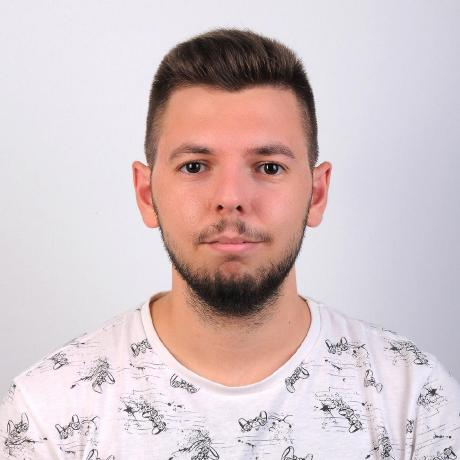
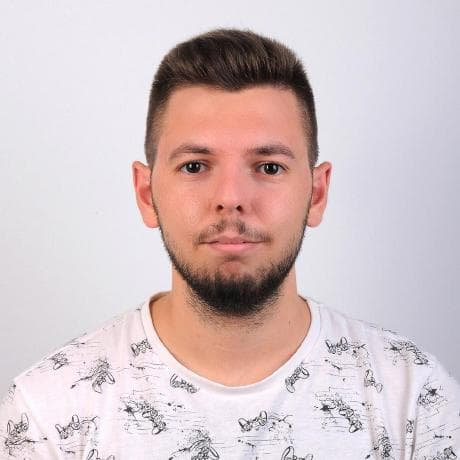
deploy: 73b358ade53dbc720b587147101f2005d27150a9

diff --git a/flutter_service_worker.js b/flutter_service_worker.js
@@ -7,8 +7,8 @@ const RESOURCES = {
 "icons/Icon-192.png": "f734be520ccdb09c10e2bbc6ec0b191b",
 "favicon.png": "984542880c9a626c99c8984baa3f5c29",
 "manifest.json": "21ec26c3d3fde1fd00fb3b188a7bc64d",
-"index.html": "9ba3057c1d0174dfd0e82ebb98a99133",
-"/": "9ba3057c1d0174dfd0e82ebb98a99133",
+"index.html": "47e52d3c4b097ae425b9ebe8a2ab9bf1",
+"/": "47e52d3c4b097ae425b9ebe8a2ab9bf1",
 "assets/packages/cupertino_icons/assets/CupertinoIcons.ttf": "6d342eb68f170c97609e9da345464e5e",
 "assets/packages/material_design_icons_flutter/lib/fonts/materialdesignicons-webfont.ttf": "174c02fc4609e8fc4389f5d21f16a296",
 "assets/NOTICES": "32914a11dee1bce7105c55e1397537c5",
@@ -31,25 +31,25 @@ const RESOURCES = {
 "assets/assets/images/sponsors/radity.png": "294a1e126f2ce66efd6d9765b57fabd9",
 "assets/assets/images/sponsors/appcircle.png": "e30b8480e5d798e8693fe3c5e9999a97",
 "assets/assets/images/sponsors/complete_reference.png": "aac378a65cd888879dadda6aa872df7d",
-"assets/assets/images/speakers/mehmet_ali_bayram.jpg": "eae8541cd939d3b92f25d8cdf11c32e3",
-"assets/assets/images/speakers/muhammet_omer.jpg": "7d7b4c81c7bf39b9f44b1b55c2b7280a",
-"assets/assets/images/speakers/bartosz_kraszewski.jpg": "a05fab6b00b922eec33678db0f8421dd",
+"assets/assets/images/speakers/mehmet_ali_bayram.jpg": "269676bd5209099bb5720fbb046c1a80",
+"assets/assets/images/speakers/muhammet_omer.jpg": "2c03c8dfc134f6395c3dc825498b686b",
+"assets/assets/images/speakers/bartosz_kraszewski.jpg": "b0acde78866dd94f8ccb670e87d6b83b",
 "assets/assets/images/speakers/berat_goktug_ozdemir.png": "4821222e9276a4d728abf457aacf8a05",
-"assets/assets/images/speakers/berkay_cayli.jpg": "3d8bbac447d0c75c4a30f7b88d958e71",
-"assets/assets/images/speakers/levent_kantaroglu.jpg": "5d9a05c4d7444b1c2611f41883d0f4d1",
-"assets/assets/images/speakers/ganesh_s_p.jpg": "c6353651629f0d7d70b30a80a7134df6",
-"assets/assets/images/speakers/cagatay_ulusoy.jpg": "b37d548f18a28e34d2ccd82407f3970f",
-"assets/assets/images/speakers/muhammed_salih_guler.jpg": "36487a73d3b94053253c628aaa621230",
-"assets/assets/images/speakers/salih_can_binboga.jpg": "163e59ef87da7b3f3d9ff744d11e646d",
-"assets/assets/images/speakers/kadriye_macit.jpg": "9f433fda1c110e53d47d4803aaccd376",
-"assets/assets/images/speakers/gurkan_fikret_gunak.jpg": "19a3deadc107eb2d0f2b0ad1c5676163",
-"assets/assets/images/speakers/murat_tekin.jpg": "2933850fe0ba048fc46f4167ca837d84",
+"assets/assets/images/speakers/berkay_cayli.jpg": "16feca98bf1b0e9549314095759c670e",
+"assets/assets/images/speakers/levent_kantaroglu.jpg": "b8599d0a908ead79b6251b874da380d2",
+"assets/assets/images/speakers/ganesh_s_p.jpg": "6b2b4137942682444e315d190d93b073",
+"assets/assets/images/speakers/cagatay_ulusoy.jpg": "170f67f8e58512cc04a1bf41fa71790a",
+"assets/assets/images/speakers/muhammed_salih_guler.jpg": "52e96e3ae6217ab5dd1a922c9dc3a646",
+"assets/assets/images/speakers/salih_can_binboga.jpg": "2aa24121aa1327a59564a564cc56fb5f",
+"assets/assets/images/speakers/kadriye_macit.jpg": "12683dc9f79c07da4c7012a50bbb9ef8",
+"assets/assets/images/speakers/gurkan_fikret_gunak.jpg": "8885dd6a6a7bb77b5293c2ba03f8aa77",
+"assets/assets/images/speakers/murat_tekin.jpg": "7217d5e1054c184f1c393db2288a0df9",
 "assets/assets/images/speakers/dashatar.png": "ac9d3e804bfc692c064b9647e3ebff5b",
-"assets/assets/images/speakers/elif_bilge_parlak.jpg": "bc945ca195e081c2915d8030b78c13cf",
-"assets/assets/images/speakers/mirsaid_ismailov.jpg": "a06bb9b83cf5e3b15d18a73b76c62fcd",
+"assets/assets/images/speakers/elif_bilge_parlak.jpg": "55425509fb6bbdd2c21515f1b68a4991",
+"assets/assets/images/speakers/mirsaid_ismailov.jpg": "367989653dd02807434872882052d1ab",
 "assets/assets/images/activity_flow/line_indicator_top.png": "0a68354ac84a21b9335c5eab0c2313dc",
 "assets/assets/images/activity_flow/line_indicator_bottom.png": "af8c498e8c52740ff4d80dfd05578b55",
-"assets/assets/images/footer_bg.jpg": "28ee1dd8395f636c9081acc78c4c379c",
+"assets/assets/images/footer_bg.jpg": "16489d16bd8133b7d63b275dd26ecd1e",
 "assets/assets/images/speaker_placeholder.png": "44b7a2309b2a1553e145363a6e29a2c5",
 "assets/assets/videos/countdown_bg.mp4": "6be1859926487e1bc7b101c093df5490",
 "assets/FontManifest.json": "e5f189376d751fa6cf98e1dd848daced",

diff --git a/index.html b/index.html
@@ -38,7 +38,7 @@
 <script>
     if ('serviceWorker' in navigator) {
         window.addEventListener('flutter-first-frame', function () {
-            navigator.serviceWorker.register('flutter_service_worker.js?v=2582770712');
+            navigator.serviceWorker.register('flutter_service_worker.js?v=3632177189');
         });
     }
 </script>
